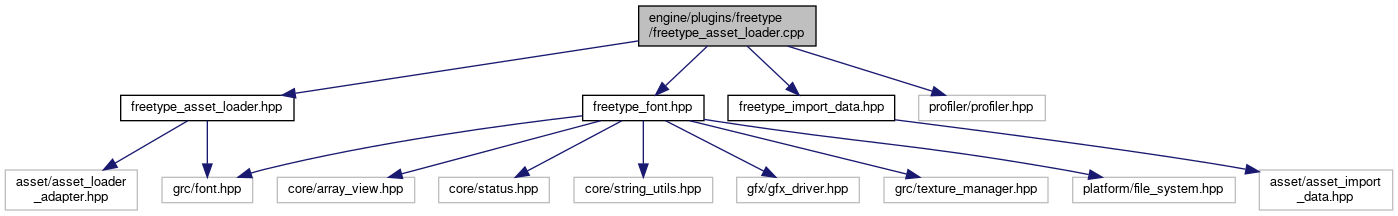
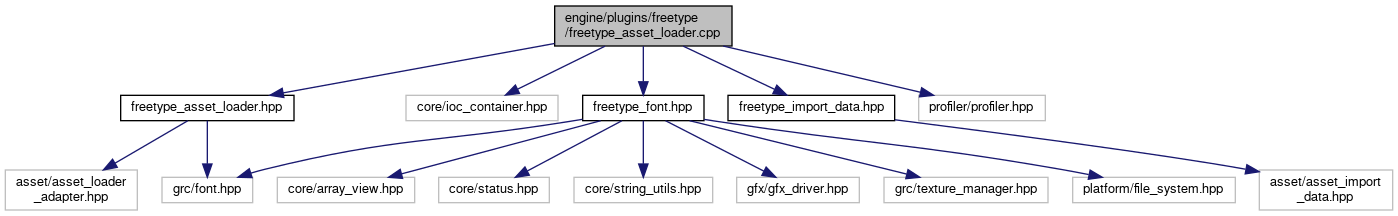
deploy: 098da9de929f2148f5aaea62bf3477396cb749cf

diff --git a/freetype__asset__loader_8hpp_source.html b/freetype__asset__loader_8hpp_source.html
@@ -123,10 +123,10 @@ $(function() {
 <div class="line"><a name="l00056"></a><span class="lineno">   56</span>&#160;}<span class="comment">// namespace wmoge</span></div>
 <div class="ttc" id="aclasswmoge_1_1FreetypeAssetLoader_html"><div class="ttname"><a href="classwmoge_1_1FreetypeAssetLoader.html">wmoge::FreetypeAssetLoader</a></div><div class="ttdoc">Loader for ttf fonts through freetype2 library.</div><div class="ttdef"><b>Definition:</b> freetype_asset_loader.hpp:39</div></div>
 <div class="ttc" id="aclasswmoge_1_1FreetypeAssetLoader_html_a16101a7db67b476a1f0d1d870692b164"><div class="ttname"><a href="classwmoge_1_1FreetypeAssetLoader.html#a16101a7db67b476a1f0d1d870692b164">wmoge::FreetypeAssetLoader::~FreetypeAssetLoader</a></div><div class="ttdeci">~FreetypeAssetLoader() override=default</div></div>
-<div class="ttc" id="aclasswmoge_1_1FreetypeAssetLoader_html_a21508baeec32a17482ec3691a914fdd0"><div class="ttname"><a href="classwmoge_1_1FreetypeAssetLoader.html#a21508baeec32a17482ec3691a914fdd0">wmoge::FreetypeAssetLoader::load_typed</a></div><div class="ttdeci">Status load_typed(AssetLoadContext &amp;context, const AssetId &amp;asset_id, const AssetLoadResult &amp;result, Ref&lt; Font &gt; &amp;asset) override</div><div class="ttdef"><b>Definition:</b> freetype_asset_loader.cpp:50</div></div>
+<div class="ttc" id="aclasswmoge_1_1FreetypeAssetLoader_html_a21508baeec32a17482ec3691a914fdd0"><div class="ttname"><a href="classwmoge_1_1FreetypeAssetLoader.html#a21508baeec32a17482ec3691a914fdd0">wmoge::FreetypeAssetLoader::load_typed</a></div><div class="ttdeci">Status load_typed(AssetLoadContext &amp;context, const AssetId &amp;asset_id, const AssetLoadResult &amp;result, Ref&lt; Font &gt; &amp;asset) override</div><div class="ttdef"><b>Definition:</b> freetype_asset_loader.cpp:51</div></div>
 <div class="ttc" id="aclasswmoge_1_1FreetypeAssetLoader_html_a7d92e1fbb914cca7aa455f3ddfc797bb"><div class="ttname"><a href="classwmoge_1_1FreetypeAssetLoader.html#a7d92e1fbb914cca7aa455f3ddfc797bb">wmoge::FreetypeAssetLoader::FreetypeAssetLoader</a></div><div class="ttdeci">FreetypeAssetLoader()=default</div></div>
 <div class="ttc" id="aclasswmoge_1_1FreetypeAssetLoader_html_a83adc9ef83f0ecc7a1caaff6e7767aa9"><div class="ttname"><a href="classwmoge_1_1FreetypeAssetLoader.html#a83adc9ef83f0ecc7a1caaff6e7767aa9">wmoge::FreetypeAssetLoader::WG_RTTI_CLASS</a></div><div class="ttdeci">WG_RTTI_CLASS(FreetypeAssetLoader, AssetLoader)</div></div>
-<div class="ttc" id="aclasswmoge_1_1FreetypeAssetLoader_html_af65ecc625bd41c6f9d7bddc48cc25b56"><div class="ttname"><a href="classwmoge_1_1FreetypeAssetLoader.html#af65ecc625bd41c6f9d7bddc48cc25b56">wmoge::FreetypeAssetLoader::fill_request</a></div><div class="ttdeci">Status fill_request(AssetLoadContext &amp;context, const AssetId &amp;asset_id, AssetLoadRequest &amp;request) override</div><div class="ttdef"><b>Definition:</b> freetype_asset_loader.cpp:36</div></div>
+<div class="ttc" id="aclasswmoge_1_1FreetypeAssetLoader_html_af65ecc625bd41c6f9d7bddc48cc25b56"><div class="ttname"><a href="classwmoge_1_1FreetypeAssetLoader.html#af65ecc625bd41c6f9d7bddc48cc25b56">wmoge::FreetypeAssetLoader::fill_request</a></div><div class="ttdeci">Status fill_request(AssetLoadContext &amp;context, const AssetId &amp;asset_id, AssetLoadRequest &amp;request) override</div><div class="ttdef"><b>Definition:</b> freetype_asset_loader.cpp:37</div></div>
 <div class="ttc" id="anamespacewmoge_html"><div class="ttname"><a href="namespacewmoge.html">wmoge</a></div><div class="ttdef"><b>Definition:</b> _rtti.cpp:33</div></div>
 <div class="ttc" id="anamespacewmoge_html_a4c8845eaf9390a9232b778f4c38c5e12"><div class="ttname"><a href="namespacewmoge.html#a4c8845eaf9390a9232b778f4c38c5e12">wmoge::WG_RTTI_CLASS_BEGIN</a></div><div class="ttdeci">WG_RTTI_CLASS_BEGIN(AssimpMeshAssetLoader)</div><div class="ttdef"><b>Definition:</b> assimp_asset_loader.hpp:57</div></div>
 <div class="ttc" id="anamespacewmoge_html_ab701759ff549fde6467d7f27eab09662"><div class="ttname"><a href="namespacewmoge.html#ab701759ff549fde6467d7f27eab09662">wmoge::WG_RTTI_END</a></div><div class="ttdeci">WG_RTTI_END</div><div class="ttdef"><b>Definition:</b> assimp_asset_loader.hpp:61</div></div>

diff --git a/texture__asset__loader_8hpp_source.html b/texture__asset__loader_8hpp_source.html
@@ -151,8 +151,8 @@ $(function() {
 <div class="ttc" id="aclasswmoge_1_1TextureCubeAssetLoader_html_a78d30bbab43d8024505500539b8b59dd"><div class="ttname"><a href="classwmoge_1_1TextureCubeAssetLoader.html#a78d30bbab43d8024505500539b8b59dd">wmoge::TextureCubeAssetLoader::~TextureCubeAssetLoader</a></div><div class="ttdeci">~TextureCubeAssetLoader() override=default</div></div>
 <div class="ttc" id="aclasswmoge_1_1TextureCubeAssetLoader_html_a79c2e3b68633ac7949e8d3dc595e6592"><div class="ttname"><a href="classwmoge_1_1TextureCubeAssetLoader.html#a79c2e3b68633ac7949e8d3dc595e6592">wmoge::TextureCubeAssetLoader::WG_RTTI_CLASS</a></div><div class="ttdeci">WG_RTTI_CLASS(TextureCubeAssetLoader, AssetLoader)</div></div>
 <div class="ttc" id="aclasswmoge_1_1TextureCubeAssetLoader_html_a9f52a804cb099198a62c5aeaa52e4b3c"><div class="ttname"><a href="classwmoge_1_1TextureCubeAssetLoader.html#a9f52a804cb099198a62c5aeaa52e4b3c">wmoge::TextureCubeAssetLoader::TextureCubeAssetLoader</a></div><div class="ttdeci">TextureCubeAssetLoader()=default</div></div>
-<div class="ttc" id="aclasswmoge_1_1TextureCubeAssetLoader_html_abc061d19cecfd733a51d5f03a6a1a325"><div class="ttname"><a href="classwmoge_1_1TextureCubeAssetLoader.html#abc061d19cecfd733a51d5f03a6a1a325">wmoge::TextureCubeAssetLoader::fill_request</a></div><div class="ttdeci">Status fill_request(AssetLoadContext &amp;context, const AssetId &amp;asset_id, AssetLoadRequest &amp;request) override</div><div class="ttdef"><b>Definition:</b> texture_asset_loader.cpp:121</div></div>
-<div class="ttc" id="aclasswmoge_1_1TextureCubeAssetLoader_html_ad58d6cd041487accc45969b01bc7b63f"><div class="ttname"><a href="classwmoge_1_1TextureCubeAssetLoader.html#ad58d6cd041487accc45969b01bc7b63f">wmoge::TextureCubeAssetLoader::load_typed</a></div><div class="ttdeci">Status load_typed(AssetLoadContext &amp;context, const AssetId &amp;asset_id, const AssetLoadResult &amp;result, Ref&lt; TextureCube &gt; &amp;asset) override</div><div class="ttdef"><b>Definition:</b> texture_asset_loader.cpp:141</div></div>
+<div class="ttc" id="aclasswmoge_1_1TextureCubeAssetLoader_html_abc061d19cecfd733a51d5f03a6a1a325"><div class="ttname"><a href="classwmoge_1_1TextureCubeAssetLoader.html#abc061d19cecfd733a51d5f03a6a1a325">wmoge::TextureCubeAssetLoader::fill_request</a></div><div class="ttdeci">Status fill_request(AssetLoadContext &amp;context, const AssetId &amp;asset_id, AssetLoadRequest &amp;request) override</div><div class="ttdef"><b>Definition:</b> texture_asset_loader.cpp:122</div></div>
+<div class="ttc" id="aclasswmoge_1_1TextureCubeAssetLoader_html_ad58d6cd041487accc45969b01bc7b63f"><div class="ttname"><a href="classwmoge_1_1TextureCubeAssetLoader.html#ad58d6cd041487accc45969b01bc7b63f">wmoge::TextureCubeAssetLoader::load_typed</a></div><div class="ttdeci">Status load_typed(AssetLoadContext &amp;context, const AssetId &amp;asset_id, const AssetLoadResult &amp;result, Ref&lt; TextureCube &gt; &amp;asset) override</div><div class="ttdef"><b>Definition:</b> texture_asset_loader.cpp:142</div></div>
 <div class="ttc" id="anamespacewmoge_html"><div class="ttname"><a href="namespacewmoge.html">wmoge</a></div><div class="ttdef"><b>Definition:</b> _rtti.cpp:33</div></div>
 <div class="ttc" id="anamespacewmoge_html_a4c8845eaf9390a9232b778f4c38c5e12"><div class="ttname"><a href="namespacewmoge.html#a4c8845eaf9390a9232b778f4c38c5e12">wmoge::WG_RTTI_CLASS_BEGIN</a></div><div class="ttdeci">WG_RTTI_CLASS_BEGIN(AssimpMeshAssetLoader)</div><div class="ttdef"><b>Definition:</b> assimp_asset_loader.hpp:57</div></div>
 <div class="ttc" id="anamespacewmoge_html_ab701759ff549fde6467d7f27eab09662"><div class="ttname"><a href="namespacewmoge.html#ab701759ff549fde6467d7f27eab09662">wmoge::WG_RTTI_END</a></div><div class="ttdeci">WG_RTTI_END</div><div class="ttdef"><b>Definition:</b> assimp_asset_loader.hpp:61</div></div>

diff --git a/freetype__font_8hpp_source.html b/freetype__font_8hpp_source.html
@@ -110,7 +110,7 @@ $(function() {
 <div class="line"><a name="l00039"></a><span class="lineno">   39</span>&#160; </div>
 <div class="line"><a name="l00044"></a><span class="lineno"><a class="line" href="classwmoge_1_1FreetypeFont.html">   44</a></span>&#160;    <span class="keyword">class </span><a class="code" href="classwmoge_1_1FreetypeFont.html">FreetypeFont</a> {</div>
 <div class="line"><a name="l00045"></a><span class="lineno">   45</span>&#160;    <span class="keyword">public</span>:</div>
-<div class="line"><a name="l00046"></a><span class="lineno">   46</span>&#160;        <a class="code" href="classwmoge_1_1FreetypeFont.html#a23839d28f58edb2d03e0e597bad584c9">FreetypeFont</a>();</div>
+<div class="line"><a name="l00046"></a><span class="lineno">   46</span>&#160;        <a class="code" href="classwmoge_1_1FreetypeFont.html#ac14723bea62934abb54dab77f97a7077">FreetypeFont</a>(<span class="keyword">class</span> IocContainer* ioc);</div>
 <div class="line"><a name="l00047"></a><span class="lineno">   47</span>&#160; </div>
 <div class="line"><a name="l00060"></a><span class="lineno">   60</span>&#160;        Status <a class="code" href="classwmoge_1_1FreetypeFont.html#a19216d29834550900d02ff466a5228e2">load</a>(<span class="keyword">const</span> Ref&lt;Font&gt;&amp; font, array_view&lt;const std::uint8_t&gt; ttf_data, <span class="keywordtype">int</span> height = 40, <span class="keywordtype">int</span> glyphs_in_row = 16);</div>
 <div class="line"><a name="l00061"></a><span class="lineno">   61</span>&#160; </div>
@@ -123,7 +123,7 @@ $(function() {
 <div class="line"><a name="l00068"></a><span class="lineno">   68</span>&#160;}<span class="comment">// namespace wmoge</span></div>
 <div class="ttc" id="aclasswmoge_1_1FreetypeFont_html"><div class="ttname"><a href="classwmoge_1_1FreetypeFont.html">wmoge::FreetypeFont</a></div><div class="ttdoc">Provides utilies to work with .ttf font via freetype library.</div><div class="ttdef"><b>Definition:</b> freetype_font.hpp:44</div></div>
 <div class="ttc" id="aclasswmoge_1_1FreetypeFont_html_a19216d29834550900d02ff466a5228e2"><div class="ttname"><a href="classwmoge_1_1FreetypeFont.html#a19216d29834550900d02ff466a5228e2">wmoge::FreetypeFont::load</a></div><div class="ttdeci">Status load(const Ref&lt; Font &gt; &amp;font, array_view&lt; const std::uint8_t &gt; ttf_data, int height=40, int glyphs_in_row=16)</div><div class="ttdoc">Loads font from a .ttf file from file system using specified height in pixels.</div><div class="ttdef"><b>Definition:</b> freetype_font.cpp:47</div></div>
-<div class="ttc" id="aclasswmoge_1_1FreetypeFont_html_a23839d28f58edb2d03e0e597bad584c9"><div class="ttname"><a href="classwmoge_1_1FreetypeFont.html#a23839d28f58edb2d03e0e597bad584c9">wmoge::FreetypeFont::FreetypeFont</a></div><div class="ttdeci">FreetypeFont()</div><div class="ttdef"><b>Definition:</b> freetype_font.cpp:41</div></div>
+<div class="ttc" id="aclasswmoge_1_1FreetypeFont_html_ac14723bea62934abb54dab77f97a7077"><div class="ttname"><a href="classwmoge_1_1FreetypeFont.html#ac14723bea62934abb54dab77f97a7077">wmoge::FreetypeFont::FreetypeFont</a></div><div class="ttdeci">FreetypeFont(class IocContainer *ioc)</div><div class="ttdef"><b>Definition:</b> freetype_font.cpp:41</div></div>
 <div class="ttc" id="anamespacewmoge_html"><div class="ttname"><a href="namespacewmoge.html">wmoge</a></div><div class="ttdef"><b>Definition:</b> _rtti.cpp:33</div></div>
 </div><!-- fragment --></div><!-- contents -->
 <!-- start footer part -->

diff --git a/assimp__asset__loader_8cpp.html b/assimp__asset__loader_8cpp.html
@@ -75,13 +75,13 @@ $(function() {
 <code>#include &quot;<a class="el" href="assimp__import__data_8hpp_source.html">assimp_import_data.hpp</a>&quot;</code><br />
 <code>#include &quot;<a class="el" href="assimp__importer_8hpp_source.html">assimp_importer.hpp</a>&quot;</code><br />
 <code>#include &quot;core/data.hpp&quot;</code><br />
+<code>#include &quot;core/ioc_container.hpp&quot;</code><br />
 <code>#include &quot;math/math_utils3d.hpp&quot;</code><br />
 <code>#include &quot;mesh/mesh.hpp&quot;</code><br />
 <code>#include &quot;mesh/mesh_builder.hpp&quot;</code><br />
 <code>#include &quot;mesh/mesh_manager.hpp&quot;</code><br />
 <code>#include &quot;platform/file_system.hpp&quot;</code><br />
 <code>#include &quot;profiler/profiler.hpp&quot;</code><br />
-<code>#include &quot;system/ioc_container.hpp&quot;</code><br />
 <code>#include &lt;cassert&gt;</code><br />
 <code>#include &lt;cstring&gt;</code><br />
 <code>#include &lt;vector&gt;</code><br />
@@ -90,21 +90,21 @@ Include dependency graph for assimp_asset_loader.cpp:</div>
 <div class="dyncontent">
 <div class="center"><img src="assimp__asset__loader_8cpp__incl.png" border="0" usemap="#aengine_2plugins_2assimp_2assimp__asset__loader_8cpp" alt=""/></div>
 <map name="aengine_2plugins_2assimp_2assimp__asset__loader_8cpp" id="aengine_2plugins_2assimp_2assimp__asset__loader_8cpp">
-<area shape="rect" title=" " alt="" coords="1513,5,1687,47"/>
+<area shape="rect" title=" " alt="" coords="1508,5,1681,47"/>
 <area shape="rect" href="assimp__asset__loader_8hpp.html" title=" " alt="" coords="410,95,579,121"/>
 <area shape="rect" title=" " alt="" coords="639,177,753,203"/>
 <area shape="rect" href="assimp__import__data_8hpp.html" title=" " alt="" coords="916,177,1079,203"/>
 <area shape="rect" href="assimp__importer_8hpp.html" title=" " alt="" coords="1087,95,1230,121"/>
 <area shape="rect" title=" " alt="" coords="1750,177,1909,203"/>
 <area shape="rect" title=" " alt="" coords="1306,95,1406,121"/>
-<area shape="rect" title=" " alt="" coords="1430,95,1583,121"/>
-<area shape="rect" title=" " alt="" coords="1608,95,1779,121"/>
-<area shape="rect" title=" " alt="" coords="1803,95,1965,121"/>
-<area shape="rect" title=" " alt="" coords="1990,95,2117,121"/>
-<area shape="rect" title=" " alt="" coords="2141,95,2310,121"/>
-<area shape="rect" title=" " alt="" coords="2334,95,2399,121"/>
-<area shape="rect" title=" " alt="" coords="2424,95,2485,121"/>
-<area shape="rect" title=" " alt="" coords="2509,95,2568,121"/>
+<area shape="rect" title=" " alt="" coords="1431,95,1583,121"/>
+<area shape="rect" title=" " alt="" coords="1607,95,1761,121"/>
+<area shape="rect" title=" " alt="" coords="1785,95,1956,121"/>
+<area shape="rect" title=" " alt="" coords="1980,95,2143,121"/>
+<area shape="rect" title=" " alt="" coords="2167,95,2294,121"/>
+<area shape="rect" title=" " alt="" coords="2318,95,2383,121"/>
+<area shape="rect" title=" " alt="" coords="2408,95,2469,121"/>
+<area shape="rect" title=" " alt="" coords="2493,95,2552,121"/>
 <area shape="rect" title=" " alt="" coords="97,169,229,211"/>
 <area shape="rect" title=" " alt="" coords="253,177,355,203"/>
 <area shape="rect" title=" " alt="" coords="379,177,479,203"/>

diff --git a/classwmoge_1_1FreetypeFont.html b/classwmoge_1_1FreetypeFont.html
@@ -80,8 +80,8 @@ $(function() {
 <table class="memberdecls">
 <tr class="heading"><td colspan="2"><h2 class="groupheader"><a name="pub-methods"></a>
 Public Member Functions</h2></td></tr>
-<tr class="memitem:a23839d28f58edb2d03e0e597bad584c9"><td class="memItemLeft" align="right" valign="top">&#160;</td><td class="memItemRight" valign="bottom"><a class="el" href="classwmoge_1_1FreetypeFont.html#a23839d28f58edb2d03e0e597bad584c9">FreetypeFont</a> ()</td></tr>
-<tr class="separator:a23839d28f58edb2d03e0e597bad584c9"><td class="memSeparator" colspan="2">&#160;</td></tr>
+<tr class="memitem:ac14723bea62934abb54dab77f97a7077"><td class="memItemLeft" align="right" valign="top">&#160;</td><td class="memItemRight" valign="bottom"><a class="el" href="classwmoge_1_1FreetypeFont.html#ac14723bea62934abb54dab77f97a7077">FreetypeFont</a> (class IocContainer *ioc)</td></tr>
+<tr class="separator:ac14723bea62934abb54dab77f97a7077"><td class="memSeparator" colspan="2">&#160;</td></tr>
 <tr class="memitem:a19216d29834550900d02ff466a5228e2"><td class="memItemLeft" align="right" valign="top">Status&#160;</td><td class="memItemRight" valign="bottom"><a class="el" href="classwmoge_1_1FreetypeFont.html#a19216d29834550900d02ff466a5228e2">load</a> (const Ref&lt; Font &gt; &amp;font, array_view&lt; const std::uint8_t &gt; ttf_data, int height=40, int glyphs_in_row=16)</td></tr>
 <tr class="memdesc:a19216d29834550900d02ff466a5228e2"><td class="mdescLeft">&#160;</td><td class="mdescRight">Loads font from a .ttf file from file system using specified height in pixels.  <a href="classwmoge_1_1FreetypeFont.html#a19216d29834550900d02ff466a5228e2">More...</a><br /></td></tr>
 <tr class="separator:a19216d29834550900d02ff466a5228e2"><td class="memSeparator" colspan="2">&#160;</td></tr>
@@ -89,8 +89,8 @@ Public Member Functions</h2></td></tr>
 <a name="details" id="details"></a><h2 class="groupheader">Detailed Description</h2>
 <div class="textblock"><p>Provides utilies to work with .ttf font via freetype library. </p>
 </div><h2 class="groupheader">Constructor &amp; Destructor Documentation</h2>
-<a id="a23839d28f58edb2d03e0e597bad584c9"></a>
-<h2 class="memtitle"><span class="permalink"><a href="#a23839d28f58edb2d03e0e597bad584c9">&#9670;&nbsp;</a></span>FreetypeFont()</h2>
+<a id="ac14723bea62934abb54dab77f97a7077"></a>
+<h2 class="memtitle"><span class="permalink"><a href="#ac14723bea62934abb54dab77f97a7077">&#9670;&nbsp;</a></span>FreetypeFont()</h2>
 
 <div class="memitem">
 <div class="memproto">
@@ -98,7 +98,8 @@ Public Member Functions</h2></td></tr>
         <tr>
           <td class="memname">wmoge::FreetypeFont::FreetypeFont </td>
           <td>(</td>
-          <td class="paramname"></td><td>)</td>
+          <td class="paramtype">class IocContainer *&#160;</td>
+          <td class="paramname"><em>ioc</em></td><td>)</td>
           <td></td>
         </tr>
       </table>

diff --git a/texture__asset__loader_8cpp.html b/texture__asset__loader_8cpp.html
@@ -73,6 +73,7 @@ $(function() {
 <div class="contents">
 <div class="textblock"><code>#include &quot;<a class="el" href="texture__asset__loader_8hpp_source.html">texture_asset_loader.hpp</a>&quot;</code><br />
 <code>#include &quot;<a class="el" href="texture__import__data_8hpp_source.html">asset/texture_import_data.hpp</a>&quot;</code><br />
+<code>#include &quot;core/ioc_container.hpp&quot;</code><br />
 <code>#include &quot;gfx/gfx_cmd_list.hpp&quot;</code><br />
 <code>#include &quot;gfx/gfx_driver.hpp&quot;</code><br />
 <code>#include &quot;grc/image.hpp&quot;</code><br />
@@ -80,23 +81,22 @@ $(function() {
 <code>#include &quot;grc/texture_manager.hpp&quot;</code><br />
 <code>#include &quot;grc/texture_resize.hpp&quot;</code><br />
 <code>#include &quot;profiler/profiler.hpp&quot;</code><br />
-<code>#include &quot;system/ioc_container.hpp&quot;</code><br />
 </div><div class="textblock"><div class="dynheader">
 Include dependency graph for texture_asset_loader.cpp:</div>
 <div class="dyncontent">
 <div class="center"><img src="texture__asset__loader_8cpp__incl.png" border="0" usemap="#aengine_2plugins_2runtime_2asset_2texture__asset__loader_8cpp" alt=""/></div>
 <map name="aengine_2plugins_2runtime_2asset_2texture__asset__loader_8cpp" id="aengine_2plugins_2runtime_2asset_2texture__asset__loader_8cpp">
-<area shape="rect" title=" " alt="" coords="1064,5,1271,47"/>
+<area shape="rect" title=" " alt="" coords="1095,5,1301,47"/>
 <area shape="rect" href="texture__asset__loader_8hpp.html" title=" " alt="" coords="367,102,533,129"/>
 <area shape="rect" title=" " alt="" coords="618,191,725,218"/>
 <area shape="rect" href="texture__import__data_8hpp.html" title=" " alt="" coords="709,95,849,136"/>
-<area shape="rect" title=" " alt="" coords="873,102,1013,129"/>
-<area shape="rect" title=" " alt="" coords="1038,102,1161,129"/>
-<area shape="rect" title=" " alt="" coords="1185,102,1288,129"/>
-<area shape="rect" title=" " alt="" coords="1312,102,1476,129"/>
-<area shape="rect" title=" " alt="" coords="1500,102,1648,129"/>
-<area shape="rect" title=" " alt="" coords="1672,102,1799,129"/>
-<area shape="rect" title=" " alt="" coords="1823,102,1992,129"/>
+<area shape="rect" title=" " alt="" coords="874,102,1026,129"/>
+<area shape="rect" title=" " alt="" coords="1051,102,1191,129"/>
+<area shape="rect" title=" " alt="" coords="1215,102,1338,129"/>
+<area shape="rect" title=" " alt="" coords="1363,102,1465,129"/>
+<area shape="rect" title=" " alt="" coords="1489,102,1653,129"/>
+<area shape="rect" title=" " alt="" coords="1677,102,1825,129"/>
+<area shape="rect" title=" " alt="" coords="1849,102,1976,129"/>
 <area shape="rect" title=" " alt="" coords="5,184,137,225"/>
 <area shape="rect" title=" " alt="" coords="161,191,277,218"/>
 <area shape="rect" title=" " alt="" coords="301,191,439,218"/>

diff --git a/freetype__font_8cpp.html b/freetype__font_8cpp.html
@@ -72,27 +72,27 @@ $(function() {
 </div><!--header-->
 <div class="contents">
 <div class="textblock"><code>#include &quot;<a class="el" href="freetype__font_8hpp_source.html">freetype_font.hpp</a>&quot;</code><br />
+<code>#include &quot;core/ioc_container.hpp&quot;</code><br />
 <code>#include &quot;gfx/gfx_driver.hpp&quot;</code><br />
 <code>#include &quot;grc/image.hpp&quot;</code><br />
 <code>#include &quot;grc/texture.hpp&quot;</code><br />
 <code>#include &quot;platform/file_system.hpp&quot;</code><br />
 <code>#include &quot;profiler/profiler.hpp&quot;</code><br />
-<code>#include &quot;system/ioc_container.hpp&quot;</code><br />
 <code>#include &lt;freetype/freetype.h&gt;</code><br />
 </div><div class="textblock"><div class="dynheader">
 Include dependency graph for freetype_font.cpp:</div>
 <div class="dyncontent">
 <div class="center"><img src="freetype__font_8cpp__incl.png" border="0" usemap="#aengine_2plugins_2freetype_2freetype__font_8cpp" alt=""/></div>
 <map name="aengine_2plugins_2freetype_2freetype__font_8cpp" id="aengine_2plugins_2freetype_2freetype__font_8cpp">
-<area shape="rect" title=" " alt="" coords="957,5,1111,47"/>
+<area shape="rect" title=" " alt="" coords="993,5,1147,47"/>
 <area shape="rect" href="freetype__font_8hpp.html" title=" " alt="" coords="528,95,649,121"/>
 <area shape="rect" title=" " alt="" coords="769,169,891,196"/>
 <area shape="rect" title=" " alt="" coords="915,169,1078,196"/>
-<area shape="rect" title=" " alt="" coords="919,95,1021,121"/>
-<area shape="rect" title=" " alt="" coords="1046,95,1153,121"/>
-<area shape="rect" title=" " alt="" coords="1177,95,1304,121"/>
-<area shape="rect" title=" " alt="" coords="1328,95,1497,121"/>
-<area shape="rect" title=" " alt="" coords="1522,95,1650,121"/>
+<area shape="rect" title=" " alt="" coords="918,95,1070,121"/>
+<area shape="rect" title=" " alt="" coords="1095,95,1197,121"/>
+<area shape="rect" title=" " alt="" coords="1222,95,1329,121"/>
+<area shape="rect" title=" " alt="" coords="1353,95,1480,121"/>
+<area shape="rect" title=" " alt="" coords="1505,95,1633,121"/>
 <area shape="rect" title=" " alt="" coords="607,169,744,196"/>
 <area shape="rect" title=" " alt="" coords="5,169,116,196"/>
 <area shape="rect" title=" " alt="" coords="141,169,279,196"/>

diff --git a/shader__asset__loader_8cpp.html b/shader__asset__loader_8cpp.html
@@ -72,25 +72,25 @@ $(function() {
 </div><!--header-->
 <div class="contents">
 <div class="textblock"><code>#include &quot;<a class="el" href="shader__asset__loader_8hpp_source.html">shader_asset_loader.hpp</a>&quot;</code><br />
+<code>#include &quot;core/ioc_container.hpp&quot;</code><br />
 <code>#include &quot;grc/shader.hpp&quot;</code><br />
 <code>#include &quot;grc/shader_file.hpp&quot;</code><br />
 <code>#include &quot;grc/shader_manager.hpp&quot;</code><br />
 <code>#include &quot;io/tree_yaml.hpp&quot;</code><br />
 <code>#include &quot;profiler/profiler.hpp&quot;</code><br />
-<code>#include &quot;system/ioc_container.hpp&quot;</code><br />
 </div><div class="textblock"><div class="dynheader">
 Include dependency graph for shader_asset_loader.cpp:</div>
 <div class="dyncontent">
 <div class="center"><img src="shader__asset__loader_8cpp__incl.png" border="0" usemap="#aengine_2plugins_2runtime_2asset_2shader__asset__loader_8cpp" alt=""/></div>
 <map name="aengine_2plugins_2runtime_2asset_2shader__asset__loader_8cpp" id="aengine_2plugins_2runtime_2asset_2shader__asset__loader_8cpp">
-<area shape="rect" title=" " alt="" coords="387,5,593,47"/>
+<area shape="rect" title=" " alt="" coords="391,5,597,47"/>
 <area shape="rect" href="shader__asset__loader_8hpp.html" title=" " alt="" coords="11,95,177,121"/>
 <area shape="rect" title=" " alt="" coords="162,177,269,203"/>
-<area shape="rect" title=" " alt="" coords="253,95,383,121"/>
-<area shape="rect" title=" " alt="" coords="408,95,572,121"/>
-<area shape="rect" title=" " alt="" coords="596,95,712,121"/>
-<area shape="rect" title=" " alt="" coords="736,95,863,121"/>
-<area shape="rect" title=" " alt="" coords="887,95,1056,121"/>
+<area shape="rect" title=" " alt="" coords="253,95,405,121"/>
+<area shape="rect" title=" " alt="" coords="429,95,559,121"/>
+<area shape="rect" title=" " alt="" coords="584,95,748,121"/>
+<area shape="rect" title=" " alt="" coords="772,95,888,121"/>
+<area shape="rect" title=" " alt="" coords="912,95,1039,121"/>
 <area shape="rect" title=" " alt="" coords="5,169,137,211"/>
 </map>
 </div>

diff --git a/search/functions_2.js b/search/functions_2.js
@@ -2,7 +2,7 @@ var searchData=
 [
   ['fill_5frequest_177',['fill_request',['../classwmoge_1_1AssimpMeshAssetLoader.html#a5b2ae408ee971d614f81831c5ee4a2ac',1,'wmoge::AssimpMeshAssetLoader::fill_request()'],['../classwmoge_1_1FreetypeAssetLoader.html#af65ecc625bd41c6f9d7bddc48cc25b56',1,'wmoge::FreetypeAssetLoader::fill_request()'],['../classwmoge_1_1DefaultAssetLoader.html#a70329c97d74559637daefd04586ab44e',1,'wmoge::DefaultAssetLoader::fill_request()'],['../classwmoge_1_1ImageAssetLoader.html#a2e2d43caab045111c65b9ef811c39373',1,'wmoge::ImageAssetLoader::fill_request()'],['../classwmoge_1_1ShaderAssetLoader.html#a9415189ac9f7c492ee55b78508dc8660',1,'wmoge::ShaderAssetLoader::fill_request()'],['../classwmoge_1_1Texture2dAssetLoader.html#ad6495e0b9031a0ce613eaf7bd207a100',1,'wmoge::Texture2dAssetLoader::fill_request()'],['../classwmoge_1_1TextureCubeAssetLoader.html#abc061d19cecfd733a51d5f03a6a1a325',1,'wmoge::TextureCubeAssetLoader::fill_request()'],['../classwmoge_1_1WavAssetLoader.html#af7ac6c89ebbeeeffd531ebb64e946f94',1,'wmoge::WavAssetLoader::fill_request()']]],
   ['freetypeassetloader_178',['FreetypeAssetLoader',['../classwmoge_1_1FreetypeAssetLoader.html#a7d92e1fbb914cca7aa455f3ddfc797bb',1,'wmoge::FreetypeAssetLoader']]],
-  ['freetypefont_179',['FreetypeFont',['../classwmoge_1_1FreetypeFont.html#a23839d28f58edb2d03e0e597bad584c9',1,'wmoge::FreetypeFont']]],
+  ['freetypefont_179',['FreetypeFont',['../classwmoge_1_1FreetypeFont.html#ac14723bea62934abb54dab77f97a7077',1,'wmoge::FreetypeFont']]],
   ['freetypeimportdata_180',['FreetypeImportData',['../classwmoge_1_1FreetypeImportData.html#a80b5995f132f53c0d30fc82cc9d653b5',1,'wmoge::FreetypeImportData']]],
   ['freetypeplugin_181',['FreetypePlugin',['../classwmoge_1_1FreetypePlugin.html#a49a73cc5e1a0ab03a44a04443e2790b1',1,'wmoge::FreetypePlugin']]]
 ];

diff --git a/default__asset__loader_8cpp.html b/default__asset__loader_8cpp.html
@@ -72,21 +72,21 @@ $(function() {
 </div><!--header-->
 <div class="contents">
 <div class="textblock"><code>#include &quot;<a class="el" href="default__asset__loader_8hpp_source.html">default_asset_loader.hpp</a>&quot;</code><br />
+<code>#include &quot;core/ioc_container.hpp&quot;</code><br />
 <code>#include &quot;io/tree_yaml.hpp&quot;</code><br />
 <code>#include &quot;profiler/profiler.hpp&quot;</code><br />
 <code>#include &quot;rtti/type_storage.hpp&quot;</code><br />
-<code>#include &quot;system/ioc_container.hpp&quot;</code><br />
 </div><div class="textblock"><div class="dynheader">
 Include dependency graph for default_asset_loader.cpp:</div>
 <div class="dyncontent">
 <div class="center"><img src="default__asset__loader_8cpp__incl.png" border="0" usemap="#aengine_2plugins_2runtime_2asset_2default__asset__loader_8cpp" alt=""/></div>
 <map name="aengine_2plugins_2runtime_2asset_2default__asset__loader_8cpp" id="aengine_2plugins_2runtime_2asset_2default__asset__loader_8cpp">
-<area shape="rect" title=" " alt="" coords="296,5,503,47"/>
+<area shape="rect" title=" " alt="" coords="328,5,535,47"/>
 <area shape="rect" href="default__asset__loader_8hpp.html" title=" " alt="" coords="5,95,172,121"/>
-<area shape="rect" title=" " alt="" coords="196,95,312,121"/>
-<area shape="rect" title=" " alt="" coords="336,95,463,121"/>
-<area shape="rect" title=" " alt="" coords="487,95,626,121"/>
-<area shape="rect" title=" " alt="" coords="651,95,820,121"/>
+<area shape="rect" title=" " alt="" coords="197,95,349,121"/>
+<area shape="rect" title=" " alt="" coords="373,95,489,121"/>
+<area shape="rect" title=" " alt="" coords="513,95,640,121"/>
+<area shape="rect" title=" " alt="" coords="665,95,803,121"/>
 <area shape="rect" title=" " alt="" coords="23,169,155,211"/>
 </map>
 </div>

diff --git a/freetype__asset__loader_8cpp.html b/freetype__asset__loader_8cpp.html
@@ -72,6 +72,7 @@ $(function() {
 </div><!--header-->
 <div class="contents">
 <div class="textblock"><code>#include &quot;<a class="el" href="freetype__asset__loader_8hpp_source.html">freetype_asset_loader.hpp</a>&quot;</code><br />
+<code>#include &quot;core/ioc_container.hpp&quot;</code><br />
 <code>#include &quot;<a class="el" href="freetype__font_8hpp_source.html">freetype_font.hpp</a>&quot;</code><br />
 <code>#include &quot;<a class="el" href="freetype__import__data_8hpp_source.html">freetype_import_data.hpp</a>&quot;</code><br />
 <code>#include &quot;profiler/profiler.hpp&quot;</code><br />
@@ -80,8 +81,9 @@ Include dependency graph for freetype_asset_loader.cpp:</div>
 <div class="dyncontent">
 <div class="center"><img src="freetype__asset__loader_8cpp__incl.png" border="0" usemap="#aengine_2plugins_2freetype_2freetype__asset__loader_8cpp" alt=""/></div>
 <map name="aengine_2plugins_2freetype_2freetype__asset__loader_8cpp" id="aengine_2plugins_2freetype_2freetype__asset__loader_8cpp">
-<area shape="rect" title=" " alt="" coords="639,5,816,47"/>
+<area shape="rect" title=" " alt="" coords="555,5,732,47"/>
 <area shape="rect" href="freetype__asset__loader_8hpp.html" title=" " alt="" coords="121,95,294,121"/>
+<area shape="rect" title=" " alt="" coords="406,95,558,121"/>
 <area shape="rect" href="freetype__font_8hpp.html" title=" " alt="" coords="583,95,704,121"/>
 <area shape="rect" href="freetype__import__data_8hpp.html" title=" " alt="" coords="728,95,895,121"/>
 <area shape="rect" title=" " alt="" coords="919,95,1045,121"/>

diff --git a/search/all_4.js b/search/all_4.js
@@ -11,7 +11,7 @@ var searchData=
   ['freetype_5fplugin_2ecpp_29',['freetype_plugin.cpp',['../freetype__plugin_8cpp.html',1,'']]],
   ['freetype_5fplugin_2ehpp_30',['freetype_plugin.hpp',['../freetype__plugin_8hpp.html',1,'']]],
   ['freetypeassetloader_31',['FreetypeAssetLoader',['../classwmoge_1_1FreetypeAssetLoader.html#a7d92e1fbb914cca7aa455f3ddfc797bb',1,'wmoge::FreetypeAssetLoader::FreetypeAssetLoader()'],['../classwmoge_1_1FreetypeAssetLoader.html',1,'wmoge::FreetypeAssetLoader']]],
-  ['freetypefont_32',['FreetypeFont',['../classwmoge_1_1FreetypeFont.html#a23839d28f58edb2d03e0e597bad584c9',1,'wmoge::FreetypeFont::FreetypeFont()'],['../classwmoge_1_1FreetypeFont.html',1,'wmoge::FreetypeFont']]],
+  ['freetypefont_32',['FreetypeFont',['../classwmoge_1_1FreetypeFont.html#ac14723bea62934abb54dab77f97a7077',1,'wmoge::FreetypeFont::FreetypeFont()'],['../classwmoge_1_1FreetypeFont.html',1,'wmoge::FreetypeFont']]],
   ['freetypeimportdata_33',['FreetypeImportData',['../classwmoge_1_1FreetypeImportData.html#a80b5995f132f53c0d30fc82cc9d653b5',1,'wmoge::FreetypeImportData::FreetypeImportData()'],['../classwmoge_1_1FreetypeImportData.html',1,'wmoge::FreetypeImportData']]],
   ['freetypeplugin_34',['FreetypePlugin',['../classwmoge_1_1FreetypePlugin.html#a49a73cc5e1a0ab03a44a04443e2790b1',1,'wmoge::FreetypePlugin::FreetypePlugin()'],['../classwmoge_1_1FreetypePlugin.html',1,'wmoge::FreetypePlugin']]]
 ];
